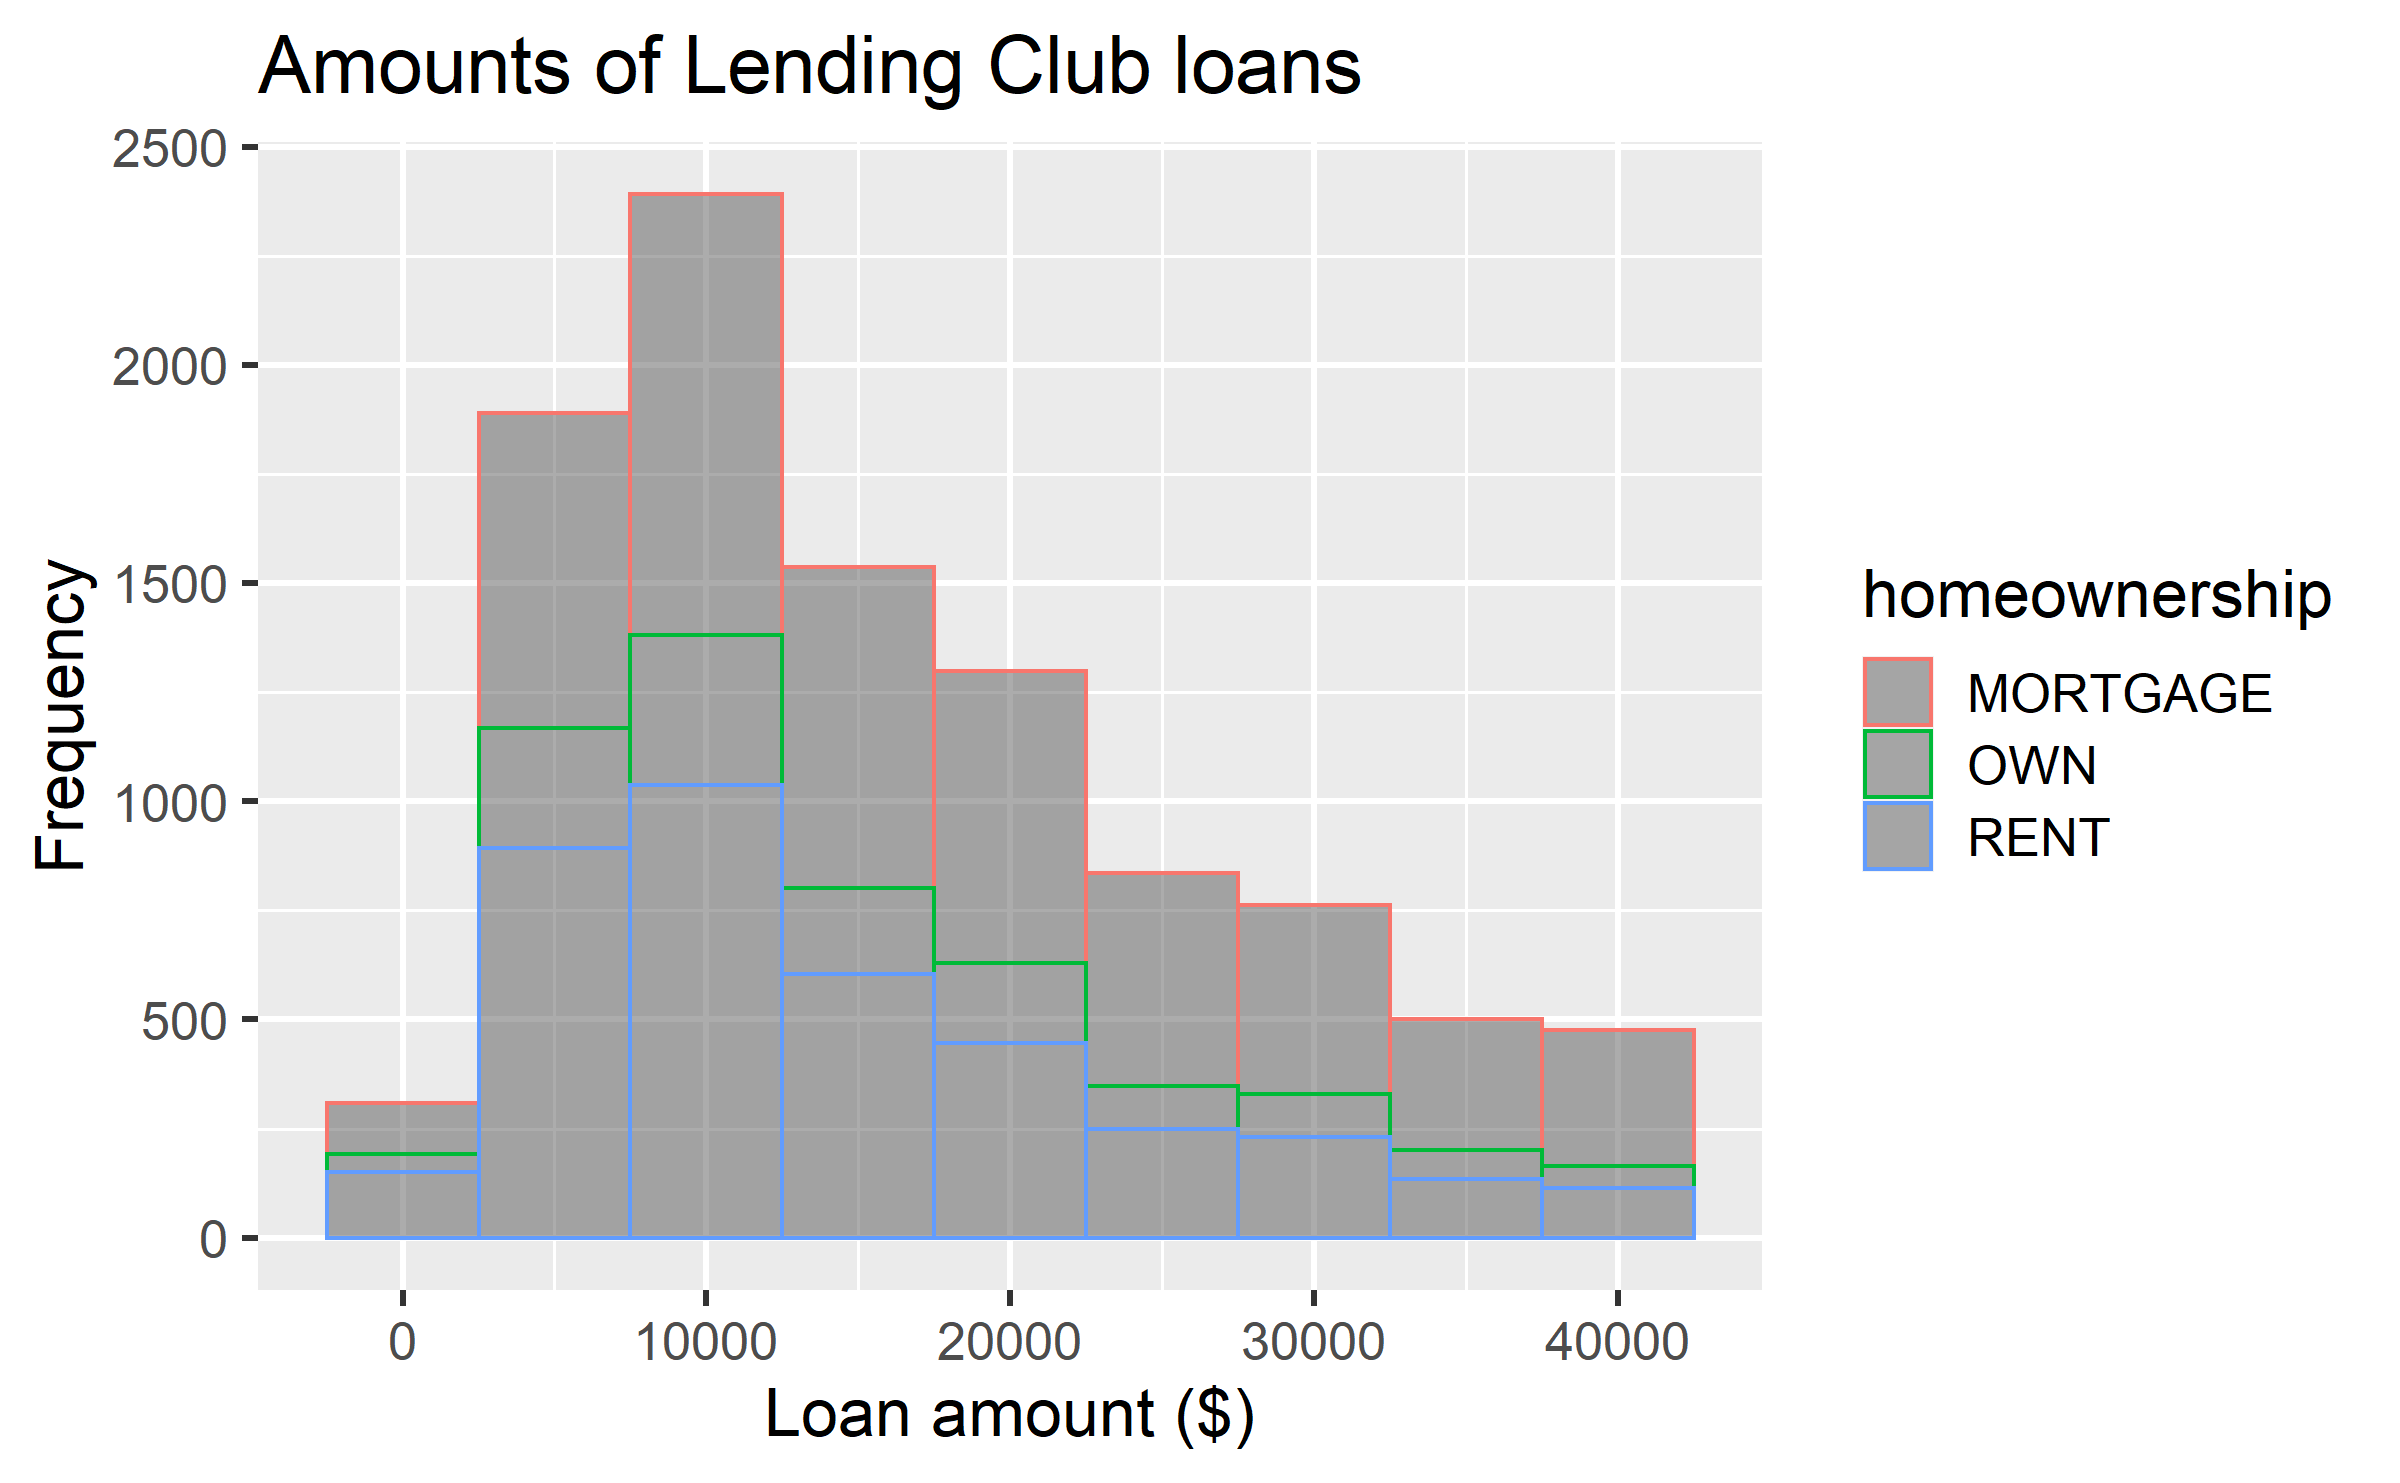
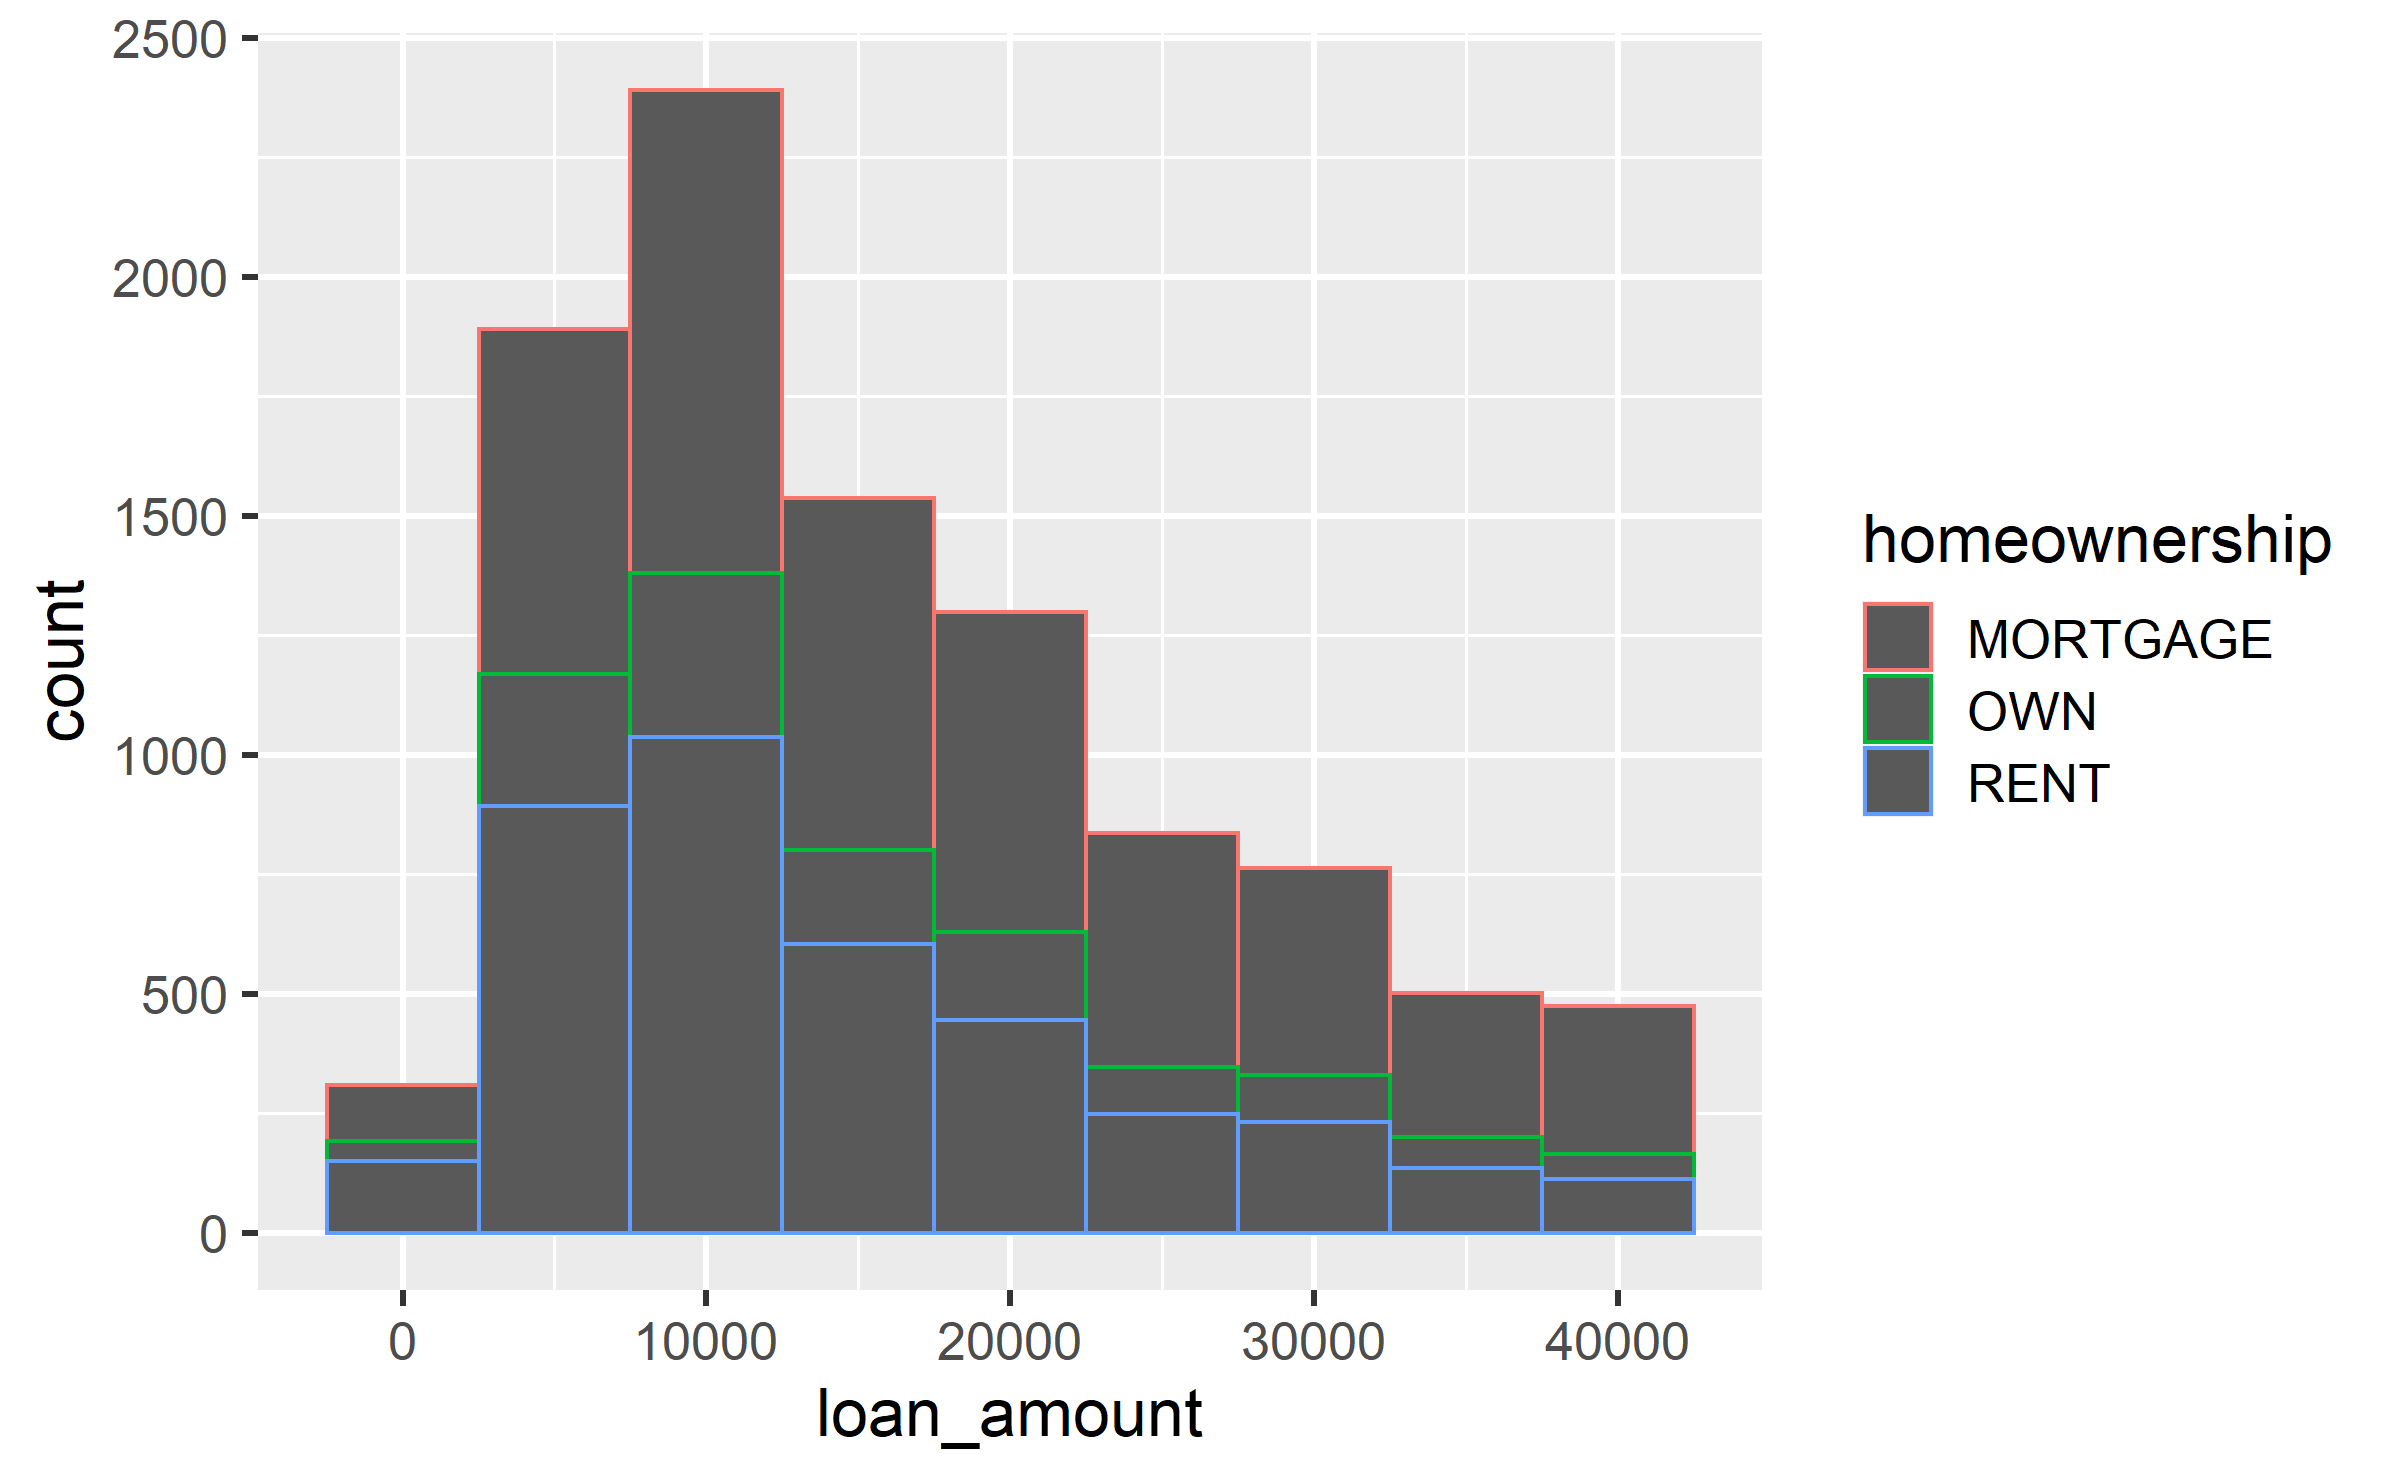
changed histogram slides

diff --git a/slides/02-data-viz/d02-viz-num.html b/slides/02-data-viz/d02-viz-num.html
@@ -167,7 +167,7 @@ variable        | description
 ----------------|-------------
 `loan_amount`   |	Amount of the loan received, in US dollars
 `interest_rate` |	Interest rate on the loan, in an annual percentage
-`term`	        | The length of the loan, which is always set as a whole number of months
+`term`	        | The length of the loan, which is rounded to a whole number of months
 `grade`	        | Loan grade, which takes a values A through G and represents the quality of the loan and its likelihood of being repaid
 `state`         |	US state where the borrower resides
 `annual_income` |	Borrower’s annual income, including any second income, in US dollars
@@ -305,19 +305,49 @@ ggplot(data = loans, mapping = aes(x = loan_amount)) +
 .panelset[
 .panel[.panel-name[Plot]
 &lt;img src="d02-viz-num_files/figure-html/unnamed-chunk-10-1.png" width="50%" style="display: block; margin: auto;" /&gt;
+
+```
+## $x
+## [1] "Loan amount ($)"
+## 
+## $y
+## [1] "Frequency"
+## 
+## $title
+## [1] "Amounts of Lending Club loans"
+## 
+## attr(,"class")
+## [1] "labels"
+```
 ]
 .panel[.panel-name[Code]
 
 ```r
 ggplot(data = loans, mapping = aes(x = loan_amount, 
 *                 color = homeownership)) +
-  geom_histogram(binwidth = 5000,
-                 alpha = 0.5) + #&lt;&lt; controls transparency of color
+  geom_histogram(binwidth = 5000) 
+```
+
+```r
   labs(
     x = "Loan amount ($)",
     y = "Frequency",
     title = "Amounts of Lending Club loans"
   )
+```
+
+```
+## $x
+## [1] "Loan amount ($)"
+## 
+## $y
+## [1] "Frequency"
+## 
+## $title
+## [1] "Amounts of Lending Club loans"
+## 
+## attr(,"class")
+## [1] "labels"
 ```
 ]
 ]
@@ -598,7 +628,7 @@ ggplot(data = loans, mapping = aes(x = annual_income, y=loan_amount, color = hom
 ]
 
 
- <div class="countdown" id="timer_62cf7bc2" style="right:0;bottom:0;" data-warnwhen="0">
+ <div class="countdown" id="timer_62d04c49" style="right:0;bottom:0;" data-warnwhen="0">
 <code class="countdown-time"><span class="countdown-digits minutes">40</span><span class="countdown-digits colon">:</span><span class="countdown-digits seconds">00</span></code>
 </div>
 
